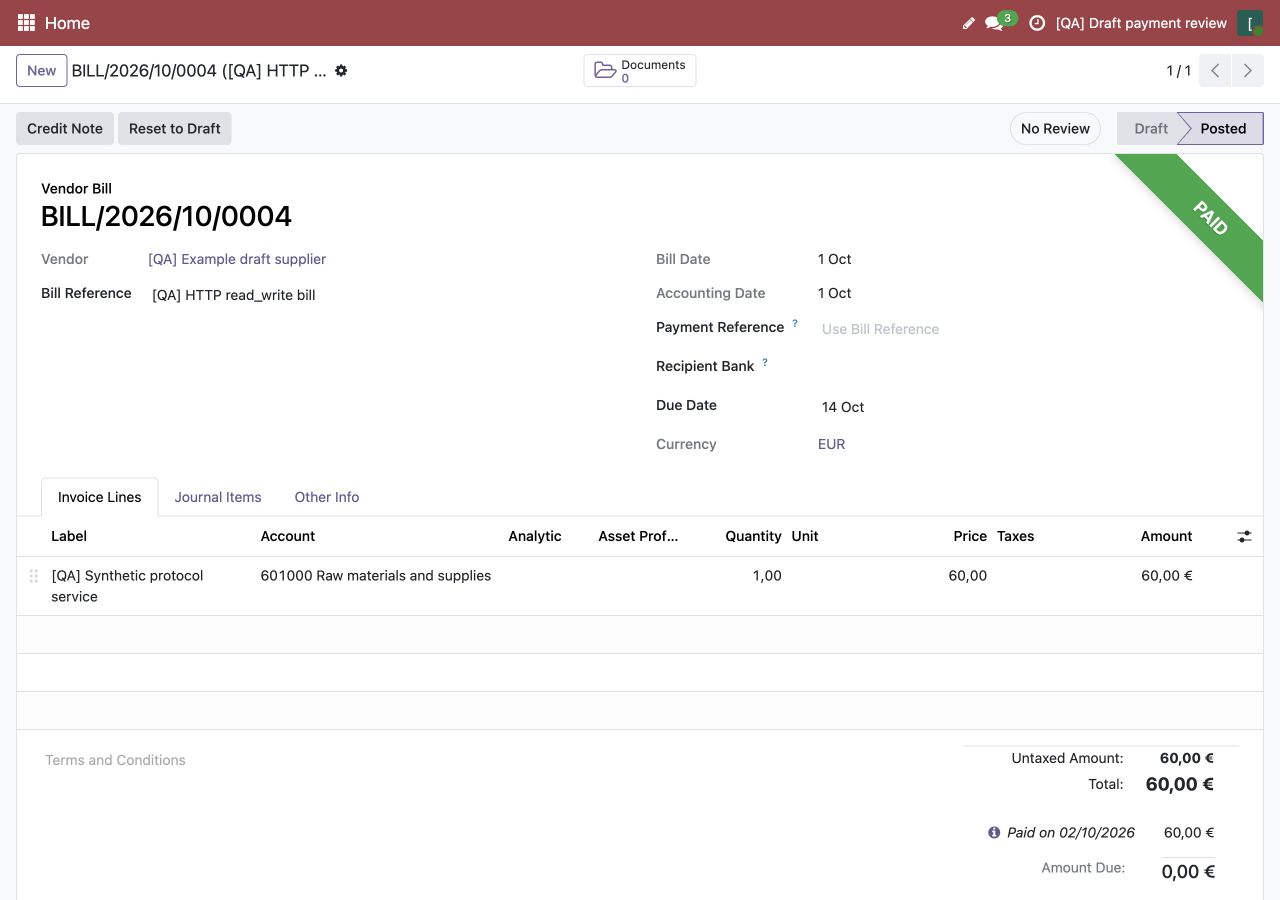
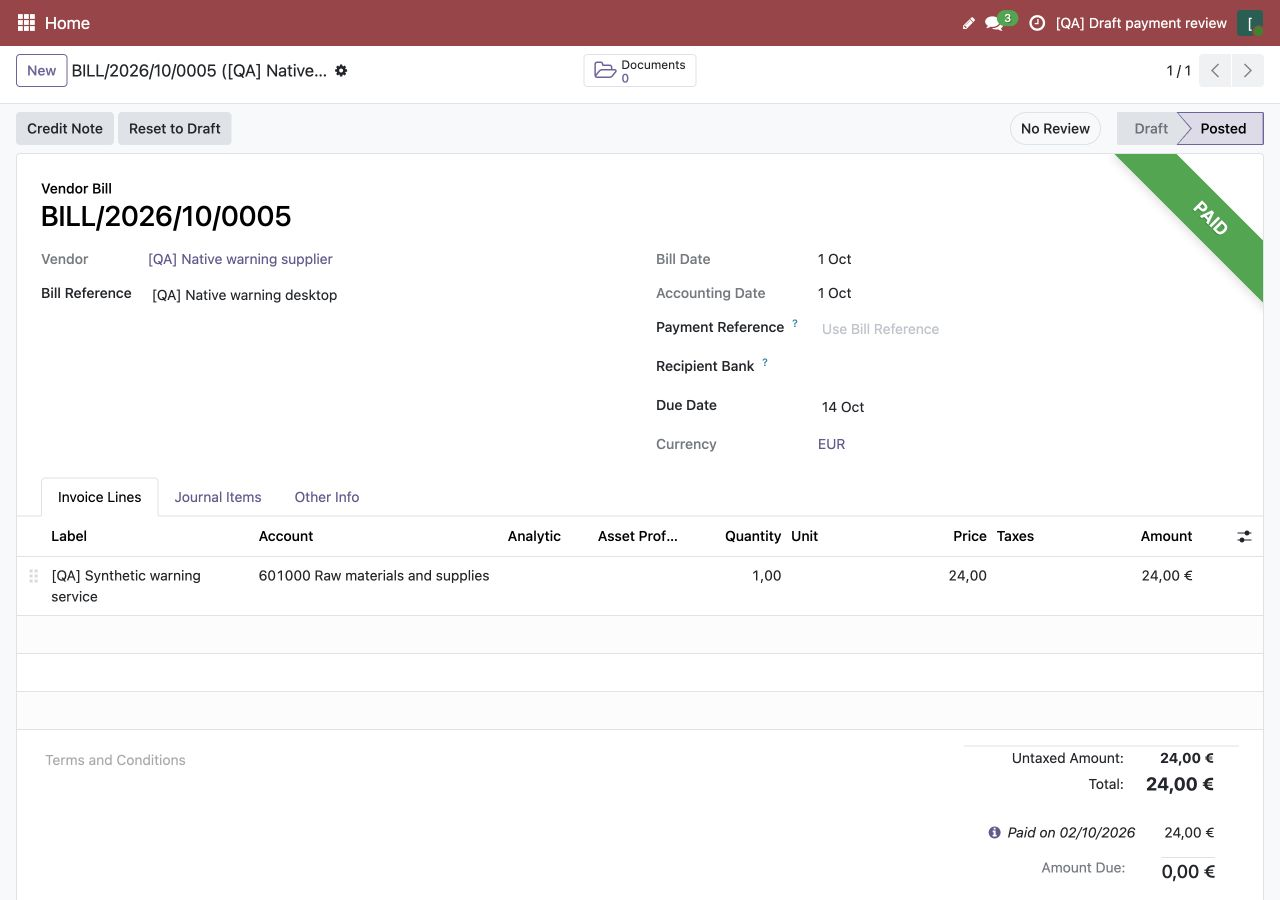
docs(accounting): show final native posting and warning confirmation QA
Replace older illustrative captures with final tested native desktop and mobile review, warning and Posted/Paid screenshots. Document capture date, exact product revision, synthetic fixtures, metadata inspection and the limits of still-image evidence.

Validation:
- Personally inspected all6 captures; JPEG metadata JFIF only; exact native readback proves1 reconciliation each for desktop/mobile,0 for Draft Discard and0 after cancelling an externally posted bill; bank facts unchanged. No production data, browser address bars, credentials, local paths or private sidecars are published.

AI-generated commit

diff --git a/docs/product/qa/draft-post-match-20261014/README.md b/docs/product/qa/draft-post-match-20261014/README.md
@@ -1,7 +1,12 @@
-# Draft bill posting and matching QA
+# Draft bill posting and matching — synthetic QA
 
-Captured 14 October 2026 from tested product revision `211886e7309f74884870518a2385f259592eba60` in a disposable local QA database. All suppliers, bills, bank transactions, amounts, identities and references are invented fixtures. The delivery lead inspected each image and its JPEG metadata before publication. Only standard JFIF metadata is present; private capture sidecars are excluded.
+Captured 14 October 2026 from final tested product revision `cfced5c14930560065c1e68a31f3f1620e931d6f` in a disposable native Odoo database. Desktop uses 1280×900; mobile uses a 390×844 browser viewport. Mobile screenshots are browser emulation, not photographs of a phone.
 
-The desktop confirmation is 1280×900. The mobile confirmation and result are 390×844 browser viewport captures, not photographs of a physical phone. The confirmation clearly names the bill, supplier, company, total, dates, selected payment, numbering and the posted-but-unmatched recovery warning. Cancel leaves the fixture draft. The result shows the separate synthetic bill posted and paid by the native JSON-2 Agent workflow; desktop shows the native invoice table and zero amount due, while mobile shows the native Posted/Paid header.
+All suppliers, invoice references, bank descriptions and amounts are invented QA fixtures. The delivery lead personally inspected all six final captures and parsed their embedded metadata before publication. JPEG metadata contains standard JFIF only, without EXIF, comments, embedded credentials, real contacts, business data, address bars or local paths. Private fixture keys, logs and metadata sidecars are not published.
 
-These still images illustrate the final layout. Functional evidence comes from native accounting and policy tests, physical database readback, separate HTTP preview/cancellation checks, actual desktop/mobile browser confirmation, concurrent-request rejection, and live Agent JSON-2 authorization and posting checks. A matching failure, refresh failure or uncertain request must be handled through the explicit recovery message and native readback; these images alone do not prove those outcomes.
+- `post-match-confirmation-desktop.jpg` and `post-match-confirmation-mobile.jpg`: the review identifies the bill and chosen bank payment, explains posting and preserves Cancel.
+- `post-match-native-warning-desktop.jpg` and `post-match-native-warning-mobile.jpg`: Odoo’s existing warning confirmation opens when invoice history requires it. Confirm and Discard stay native and readable on both viewports. The mobile capture is taken after the native opening animation completes.
+- `post-match-result-desktop.jpg`: the natively posted and paid synthetic desktop bill with its total, bank payment and zero amount due.
+- `post-match-result-mobile.jpg`: the natively posted and paid synthetic mobile bill, including its heading and supplier. Its lower totals are outside this viewport.
+
+These stills illustrate layout. Native regressions and actual caller-scoped database readback separately prove one reconciliation for each confirmed desktop/mobile bill, unchanged bank facts, Draft and no match after Discard, and no match after cancelling a dialog when another native request posted the bill. No production mutation or external financial transaction occurred.
